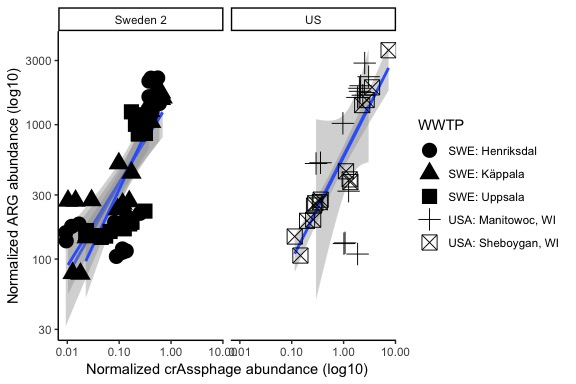
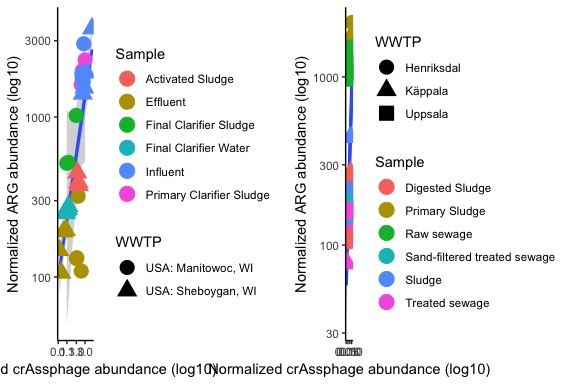
suppl figures updated

Changed region(s): [[0.0, 0.0, 0.9688, 1.0], [0.7188, 0.7812, 0.8438, 0.8125]]

diff --git a/README.md b/README.md
@@ -142,7 +142,59 @@ crass_impact <- read.table("data/crass_impact.txt")
 MG_RAST <- read.table("data/MG-RAST.txt")
 crass_wwtp <- read.table("data/crass_wwtp.txt")
 res_risk <- read.table("data/res_risk.txt")
+us_wwtp <- read.table("data/us_wwtp.txt")
+swe_wwtp <- read.table("data/swe_wwtp.txt")
+glimpse(us_wwtp)
 ```
+
+    ## Observations: 29
+    ## Variables: 46
+    ## $ crAss              <dbl> 0.628775, 0.336012, 0.118601, 0.561150, 8.8...
+    ## $ res                <int> 477, 243, 153, 547, 2255, 327, 255, 296, 54...
+    ## $ rich               <int> 124, 78, 67, 126, 185, 77, 70, 85, 262, 139...
+    ## $ mge                <int> 9224, 2454, 1542, 7284, 41108, 3273, 2839, ...
+    ## $ intI1              <int> 58, 15, 6, 41, 90, 25, 25, 27, 675, 363, 40...
+    ## $ bp                 <dbl> 2429184568, 2286906739, 1039652891, 2841355...
+    ## $ rel_crAss          <dbl> 0.2588420, 0.1469286, 0.1140775, 0.1974938,...
+    ## $ rel_res            <dbl> 196.3622, 106.2571, 147.1645, 192.5138, 320...
+    ## $ rel_rich           <dbl> 51.04594, 34.10721, 64.44459, 44.34504, 26....
+    ## $ rel_mge            <dbl> 3797.159, 1073.065, 1483.187, 2563.565, 583...
+    ## $ rel_int            <dbl> 23.876325, 6.559078, 5.771157, 14.429734, 1...
+    ## $ country            <fct> US, US, US, US, US, US, US, US, US, US, US,...
+    ## $ AvgSpotLen         <int> 198, 198, 198, 198, 200, 200, 200, 200, 200...
+    ## $ BioSample          <fct> SAMN06928187, SAMN06928188, SAMN06928189, S...
+    ## $ Experiment         <fct> SRX2805470, SRX2805469, SRX2805468, SRX2805...
+    ## $ Library_Name       <fct> SE_P, SE1, SE2, SE3, E_P, E1, E2, E3, FS2, ...
+    ## $ LoadDate           <fct> 2017-05-12, 2017-05-12, 2017-05-12, 2017-05...
+    ## $ MBases             <int> 2316, 2180, 991, 2709, 6720, 2860, 1865, 21...
+    ## $ MBytes             <int> 807, 746, 341, 929, 2256, 955, 619, 709, 18...
+    ## $ Organism           <fct> freshwater metagenome, freshwater metagenom...
+    ## $ ReleaseDate        <fct> 2018-01-10, 2018-01-10, 2018-01-10, 2018-01...
+    ## $ Replicate          <fct> , , , , , , , , 2, 1, 3, 2, 1, Prefilter, 3...
+    ## $ Run                <fct> SRR5535873, SRR5535874, SRR5535875, SRR5535...
+    ## $ SRA_Sample         <fct> SRS2185308, SRS2185307, SRS2185306, SRS2185...
+    ## $ Sample_Name        <fct> SE_P, SE1, SE2, SE3, E_P, E1, E2, E3, FS2, ...
+    ## $ collection_date    <fct> 15-Jul-2015, 15-Jul-2015, 15-Jul-2015, 15-J...
+    ## $ geo_loc_name       <fct> USA: Sheboygan, WI, USA: Sheboygan, WI, USA...
+    ## $ isolation_source   <fct> Sheboygan Effluent, Sheboygan Effluent, She...
+    ## $ lat_lon            <fct> 43.718756 N 87.708365 W, 43.718756 N 87.708...
+    ## $ samp_size          <fct> L, L, L, L, L, L, L, L, , , , , , , , , , ,...
+    ## $ Assay_Type         <fct> WGS, WGS, WGS, WGS, WGS, WGS, WGS, WGS, WGS...
+    ## $ BioProject         <fct> PRJNA385831, PRJNA385831, PRJNA385831, PRJN...
+    ## $ BioSampleModel     <fct> Metagenome or environmental, Metagenome or ...
+    ## $ Consent            <fct> public, public, public, public, public, pub...
+    ## $ DATASTORE_filetype <fct> sra, sra, sra, sra, sra, sra, sra, sra, sra...
+    ## $ DATASTORE_provider <fct> ncbi, ncbi, ncbi, ncbi, ncbi, ncbi, ncbi, n...
+    ## $ InsertSize         <int> 0, 0, 0, 0, 0, 0, 0, 0, 0, 0, 0, 0, 0, 0, 0...
+    ## $ Instrument         <fct> Illumina HiSeq 2500, Illumina HiSeq 2500, I...
+    ## $ LibraryLayout      <fct> PAIRED, PAIRED, PAIRED, PAIRED, PAIRED, PAI...
+    ## $ LibrarySelection   <fct> RANDOM, RANDOM, RANDOM, RANDOM, RANDOM, RAN...
+    ## $ LibrarySource      <fct> METAGENOMIC, METAGENOMIC, METAGENOMIC, META...
+    ## $ Platform           <fct> ILLUMINA, ILLUMINA, ILLUMINA, ILLUMINA, ILL...
+    ## $ SRA_Study          <fct> SRP107015, SRP107015, SRP107015, SRP107015,...
+    ## $ host               <fct> not applicable, not applicable, not applica...
+    ## $ Sample_loc         <fct> Effluent, Effluent, Effluent, Effluent, Eff...
+    ## $ country_wwtp       <fct> USA: Sheboygan, WI, USA: Sheboygan, WI, USA...
 
 Figure 1 - crAssphage and ARG dynamics in human feacal metagenomes
 ------------------------------------------------------------------
@@ -570,17 +622,15 @@ ggplot(pos_crass, aes(x=predicted, y=res, color=pos_crass$revised_source)) +
 ### Supplementary Figure 6
 
 ``` r
-#glimpse(crass_wwtp)
-#str_split_fixed(crass_wwtp$country_wwtp, pattern=":", n=2) %>% data.frame() 
-ggplot(crass_wwtp, aes(rel_crAss, rel_res, shape=country_wwtp)) + 
-  geom_smooth(method="lm") + 
-  geom_point(size=5) + 
-  facet_grid(.~country) +
-  scale_x_log10() + 
-  scale_y_log10() + 
-  labs(y = "Normalized ARG abundance (log10)", x="Normalized crAssphage abundance (log10)") +
-  theme_classic() + 
-  guides(shape=guide_legend(title="WWTP"), color=guide_legend(title="Sample"))
+p1 <-  ggplot(us_wwtp, aes(rel_crAss, rel_res, shape=geo_loc_name)) + geom_smooth(method="lm") + geom_point(aes(color=Sample_loc), size=5) + scale_x_log10() + scale_y_log10() +
+      labs(y = "Normalized ARG abundance (log10)", x="Normalized crAssphage abundance (log10)") + theme_classic() +
+      guides(shape=guide_legend(title="WWTP"), color=guide_legend(title="Sample"))
+
+p2 <- ggplot(swe_wwtp, aes(rel_crAss, rel_res, shape=WWTP)) + geom_smooth(method="lm") + geom_point(aes(color=Sample), size=5) + scale_x_log10() + scale_y_log10() +
+      labs(y = "Normalized ARG abundance (log10)", x="Normalized crAssphage abundance (log10)") + theme_classic() +
+      guides(shape=guide_legend(title="WWTP"), color=guide_legend(title="Sample"))
+
+grid.arrange(p1, p2, ncol=2)
 ```
 
 ![](README_files/figure-markdown_github/unnamed-chunk-22-1.jpeg)
